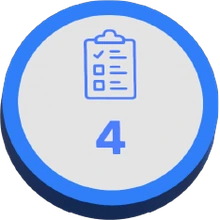
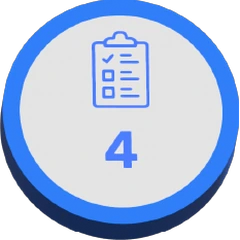
Pricing Pathway polish: centred reveal text, aligned marker rings, spacing
- Re-crop markers tight to the circle (centred) so the active glow ring
  lines up; drop-shadow added back via CSS. Marker size trimmed to 82.
- Centre the reveal-panel text; Step pill font matched to the heading.
- Nudge steps 3 and 5 down so the top markers clear the phase pills.

diff --git a/client/src/components/PathwayInfographic.tsx b/client/src/components/PathwayInfographic.tsx
@@ -32,14 +32,20 @@ import { pathwayNodes } from '../data/issueTreeReveal';
 
 const DESIGN_W = 2560;
 const DESIGN_H = 853;
-const MARKER_DIA = 100; // ~0.039 of the road width, matching the art
+// Marker circle diameter in design px. The marker webps are now cropped
+// tight to the circle (centred), so this is the actual circle size; the
+// drop-shadow is added in CSS so it can't push the circle off its centre.
+const MARKER_DIA = 82;
 
+// Steps 3 and 5 are nudged down from the detected road centres so the
+// top markers clear the phase pills (the pills are baked into the road
+// art, so this is the code-side way to open that gap).
 const CENTRE: Record<number, { x: number; y: number }> = {
   1: { x: 0.224, y: 0.421 },
   2: { x: 0.301, y: 0.849 },
-  3: { x: 0.416, y: 0.225 },
+  3: { x: 0.416, y: 0.262 },
   4: { x: 0.492, y: 0.847 },
-  5: { x: 0.588, y: 0.286 },
+  5: { x: 0.588, y: 0.320 },
   6: { x: 0.628, y: 0.755 },
   7: { x: 0.724, y: 0.478 },
 };
@@ -160,7 +166,10 @@ export function PathwayInfographic({
                     alt=""
                     width={MARKER_DIA}
                     height={MARKER_DIA}
-                    style={{ display: 'block' }}
+                    style={{
+                      display: 'block',
+                      filter: 'drop-shadow(0 4px 6px rgba(0,8,26,0.45))',
+                    }}
                   />
                 </button>
 
@@ -191,7 +200,7 @@ export function PathwayInfographic({
         </div>
       </div>
 
-      {/* Revealed step text - fixed panel beneath the road. */}
+      {/* Revealed step text - fixed panel beneath the road, centred. */}
       <div
         style={{
           minHeight: 92,
@@ -201,6 +210,8 @@ export function PathwayInfographic({
           padding: '14px 20px',
           display: 'flex',
           alignItems: 'center',
+          justifyContent: 'center',
+          textAlign: 'center',
         }}
       >
         {activeNode ? (
@@ -210,15 +221,23 @@ export function PathwayInfographic({
             animate={{ opacity: 1, y: 0 }}
             transition={{ duration: 0.22, ease: 'easeOut' }}
           >
-            <div style={{ display: 'flex', alignItems: 'baseline', gap: 10, flexWrap: 'wrap' }}>
+            <div
+              style={{
+                display: 'flex',
+                alignItems: 'baseline',
+                justifyContent: 'center',
+                gap: 10,
+                flexWrap: 'wrap',
+              }}
+            >
               <span
                 style={{
-                  fontSize: 12,
+                  fontSize: 19,
                   fontWeight: 800,
                   color: 'var(--brand-navy)',
                   background: 'var(--brand-yellow)',
-                  borderRadius: 6,
-                  padding: '2px 8px',
+                  borderRadius: 7,
+                  padding: '1px 10px',
                 }}
               >
                 Step {activeNode.stepNumber}
